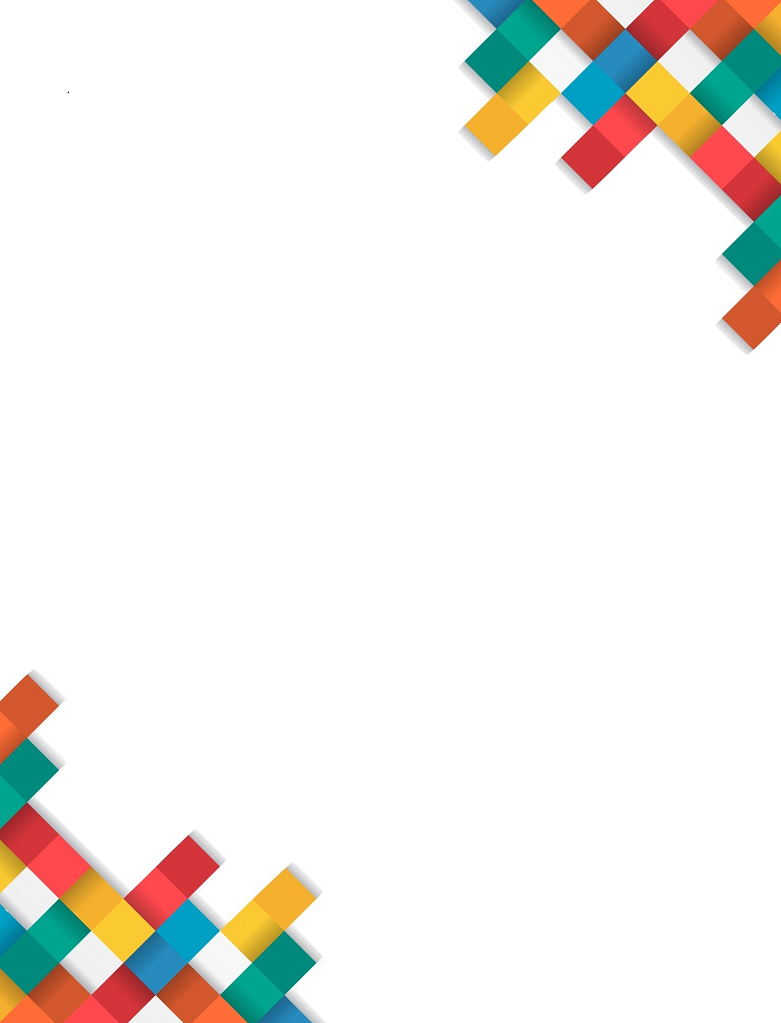
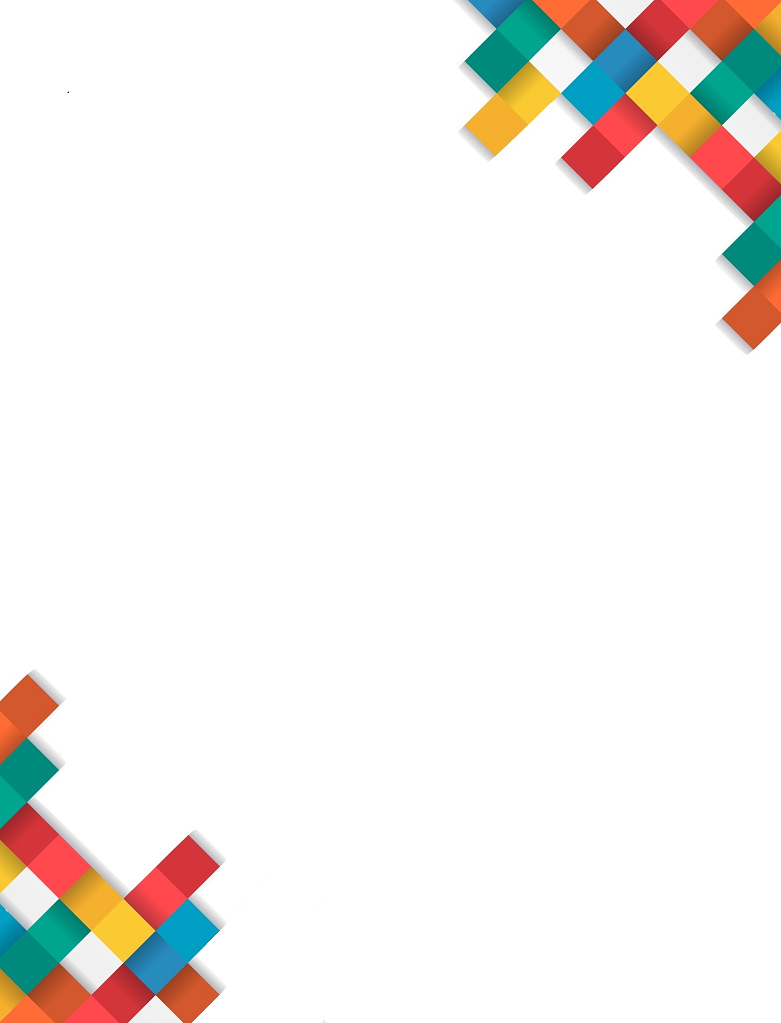
modificacion en los estilos del formulario version tablet, ajustes en la version mobile

Changed region(s): [[0.2458, 0.8485, 0.4302, 1.0]]

diff --git a/front/invited/index.html b/front/invited/index.html
@@ -7,8 +7,6 @@
     <link rel="stylesheet" href="styles.css">
     <!-- Fonts -->
     <link href="https://fonts.googleapis.com/css2?family=Fredoka+One&family=Roboto:wght@100;300;400&display=swap" rel="stylesheet">
-    <!-- icons -->
-    <script src="https://kit.fontawesome.com/9b2f5039b7.js" crossorigin="anonymous"></script>
 </head>
 <body>
     <section class="container">
@@ -16,11 +14,11 @@
             <header class="header">
                 <img src="../image/clap.png" alt="logotipo" class="logo">
             </header>
-            <div class="description register">
-                <span class="title">Verificación de pago</span>
-                <p class="text">Una vez registrado tu pago, podrás hacerle seguimiento al proceso de verificación en el formulario de consulta.</p>
-            </div>
-            <div class="form register">
+                <div class="form register">
+                    <div class="description register">
+                        <span class="title">Verificación de pago</span>
+                    <p class="text">Una vez registrado tu pago, podrás hacerle seguimiento al proceso de verificación en el formulario de consulta.</p>
+                </div>
                 <form action="" class="form-elements">
                     <div class="form-header">
                         <div class="show-register">Registrar</div>
@@ -32,37 +30,31 @@
                     </div>
         
                     <div class="form-element">
-                        <!-- <i class="fas fa-user icons"></i> -->
                         <input type="text" name="name" class="input-box" minlength="2" required>
                         <label for="name" class="form-label"><span>Nombre</span></label>
                     </div>
         
                     <div class="form-element">
-                        <!-- <i class="fas fa-id-card icons"></i> -->
                         <input type="number" name="document" class="input-box" required>
                         <label for="document" class="form-label"><span>Nº de documento</span></label>
                     </div>
         
                     <div class="form-element">
-                        <!-- <i class="fas fa-at icons"></i> -->
                         <input type="email" name="email" class="input-box" required>
                         <label for="email" class="form-label"><span>Correo</span></label>
                     </div>
         
                     <div class="form-element">
-                        <!-- <i class="fas fa-building icons"></i> -->
                         <input type="number" name="floor" class="input-floor input-box" required>
                         <label for="floor" class="form-label"><span>Piso</span></label>
                     </div>
         
                     <div class="form-element">
-                        <!-- <i class="fas fa-building icons"></i> -->
                         <input type="text" name="department" class="input-depto input-box" required>
                         <label for="department" class="form-label"><span>Nº apto.</span></label>
                     </div>
         
                     <div class="form-element">
-                        <!-- <i class="fas fa-money-check-alt icons"></i> -->
                         <input type="number" name="reference" class="input-box" required="required">
                         <label for="reference" class="form-label"><span>Nº de referencia</span></label>
                     </div>

diff --git a/front/invited/styles.css b/front/invited/styles.css
@@ -59,11 +59,6 @@ body {
     width: 80px;
 }
 
-/*---------- DESCRIPTION ----------*/
-.description {
-    display: none;
-}
-
 /* ------------FORM REGISTER-------------- */
 /** ------------container-------------- */
 .form {
@@ -71,7 +66,7 @@ body {
     display: grid;
     align-content: center;
     width: 100%;
-    height: 500px;
+    min-height: 100%;
     padding: 10px;    
 }
 
@@ -84,9 +79,14 @@ body {
     background-color: #fff;
 }
 
+/**---------- description ----------*/
+.description {
+    display: none;
+}
+
 /** -------------form header-------------- */
 .form .form-header {
-    width: 100%;
+    width: 80%;
     height: 50px;
     display: flex;
     align-items: center;
@@ -146,7 +146,7 @@ body {
 .form-element {
     position: relative;
     width: 100%;
-    height: 50px;
+    height: 60px;
     transition: all 500ms ease-in-out;
 }
 
@@ -172,7 +172,7 @@ body {
     position: relative;
     width: 100%;
     height: 2.2em;
-    font-size: 1em;
+    font-size: .9em;
     border-radius: .5em;
     transition: .5s ease-in-out;
 
@@ -189,7 +189,7 @@ body {
     position: absolute;
     top: 0;
     left: 0;
-    line-height: 35px;
+    line-height: 32px;
     transition: .5s ease;
 
     color: var(--input-text-color);
@@ -202,7 +202,7 @@ body {
 
 .input-box:focus + .form-label,
 .input-box:valid + .form-label {
-    top: -17px;
+    top: -16px;
     padding-left: 10px;
     font-size: .8em;
     color: var(--color-secundario);
@@ -256,3 +256,62 @@ body {
 }
 
 /*? ---------------TABLET---------------- */
+@media screen and (min-width: 600px) {
+    /**---------- Container ----------*/
+    .container {
+        background-image: url(../image/background-tablet.png);
+    }
+
+    .wrapper-grid {
+        width: 500px;
+        grid-template: 150px 1fr 65px / 1fr;
+        grid-template-areas: 
+            "header header"
+            "form form"
+            "footer footer";
+    }
+
+    /*---------- HEADER ----------*/
+    .logo {
+        width: 110px;
+    }
+
+    /* ------------FORM REGISTER-------------- */
+    /** -------------form header-------------- */
+    .form .form-header {
+        width: 60%;
+        height: 60px;
+    }
+
+    .form .form-header > div {
+        height: 30px;
+    }
+
+    /** --------------form elements-------------- */
+    .form-element {
+        height: 70px;
+    }
+
+    .form-element:nth-child(2) {
+        padding-top: 18px;
+    }
+
+    .input-box {
+        height: 2.4em;
+        font-size: 1em;
+
+        box-shadow: 10px 7px 10px -5px rgba(25, 25, 25, 0.2);
+    }
+
+    .form-label {
+        line-height: 38px;
+    }
+    
+    .input-box:focus + .form-label,
+    .input-box:valid + .form-label {
+        top: -19px;
+        font-size: .9em;
+    }
+
+
+}
